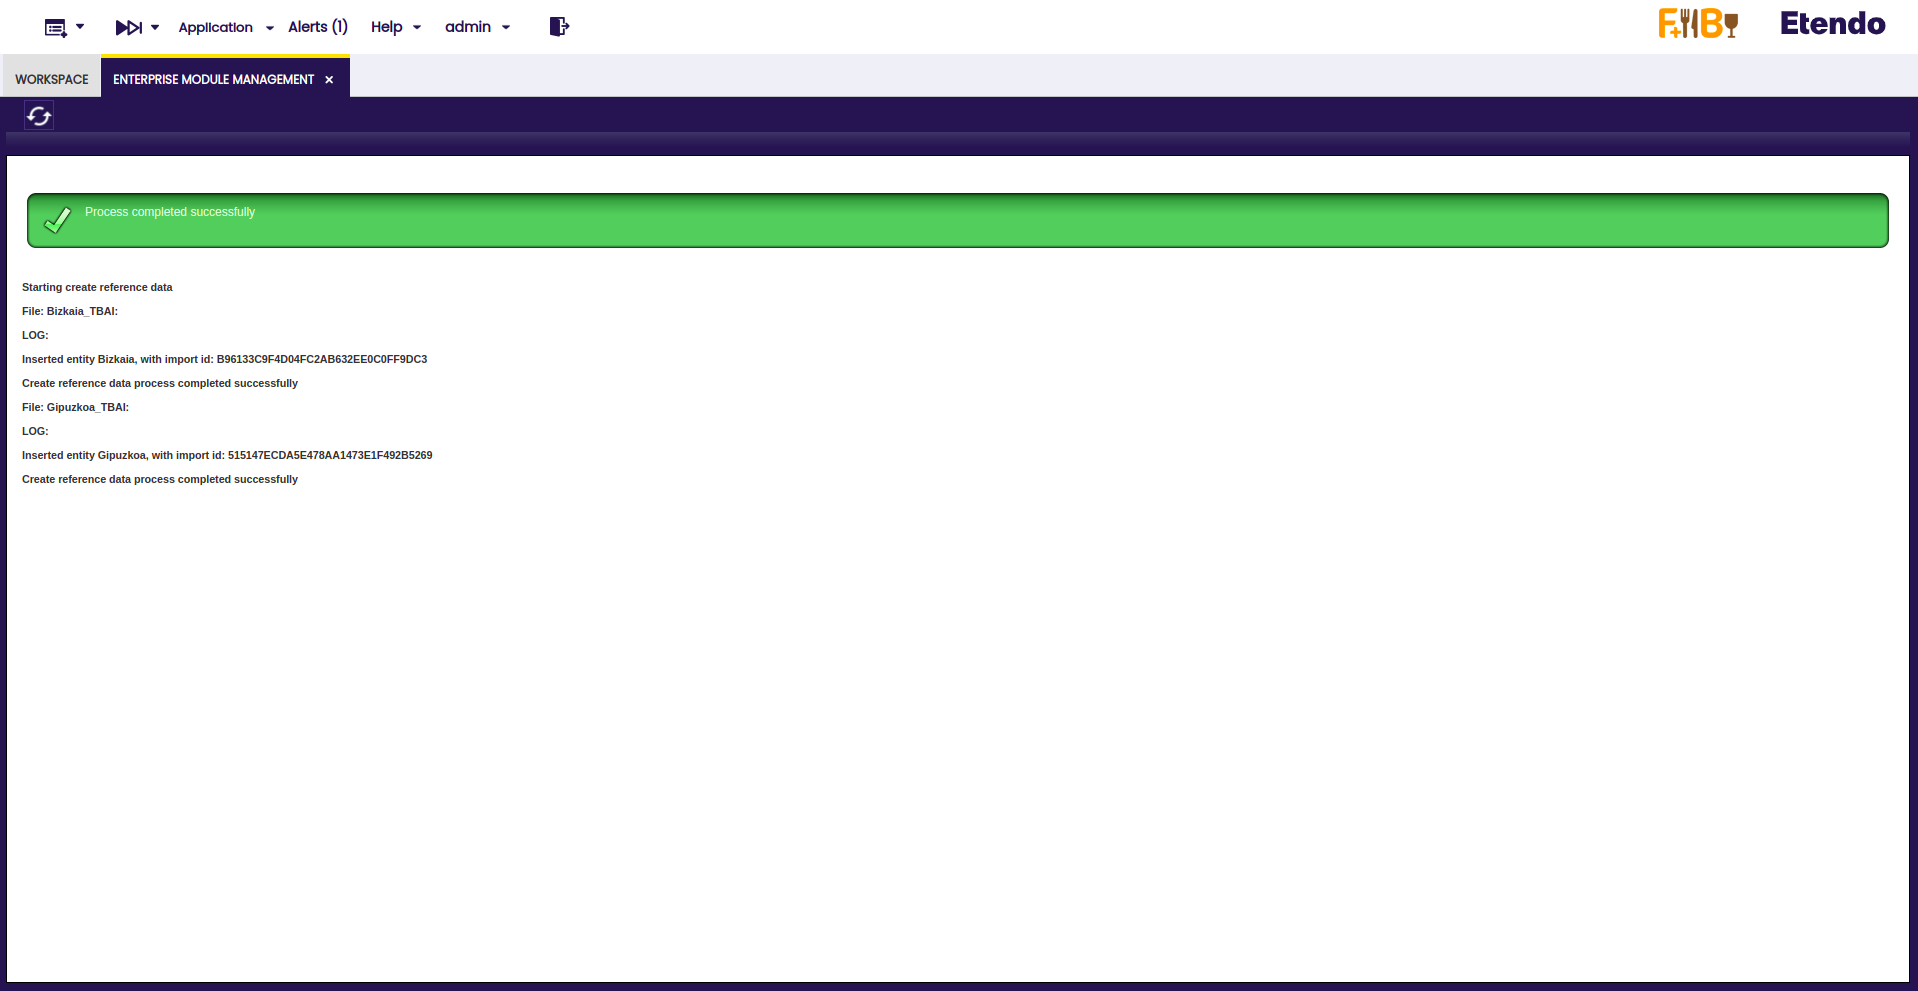
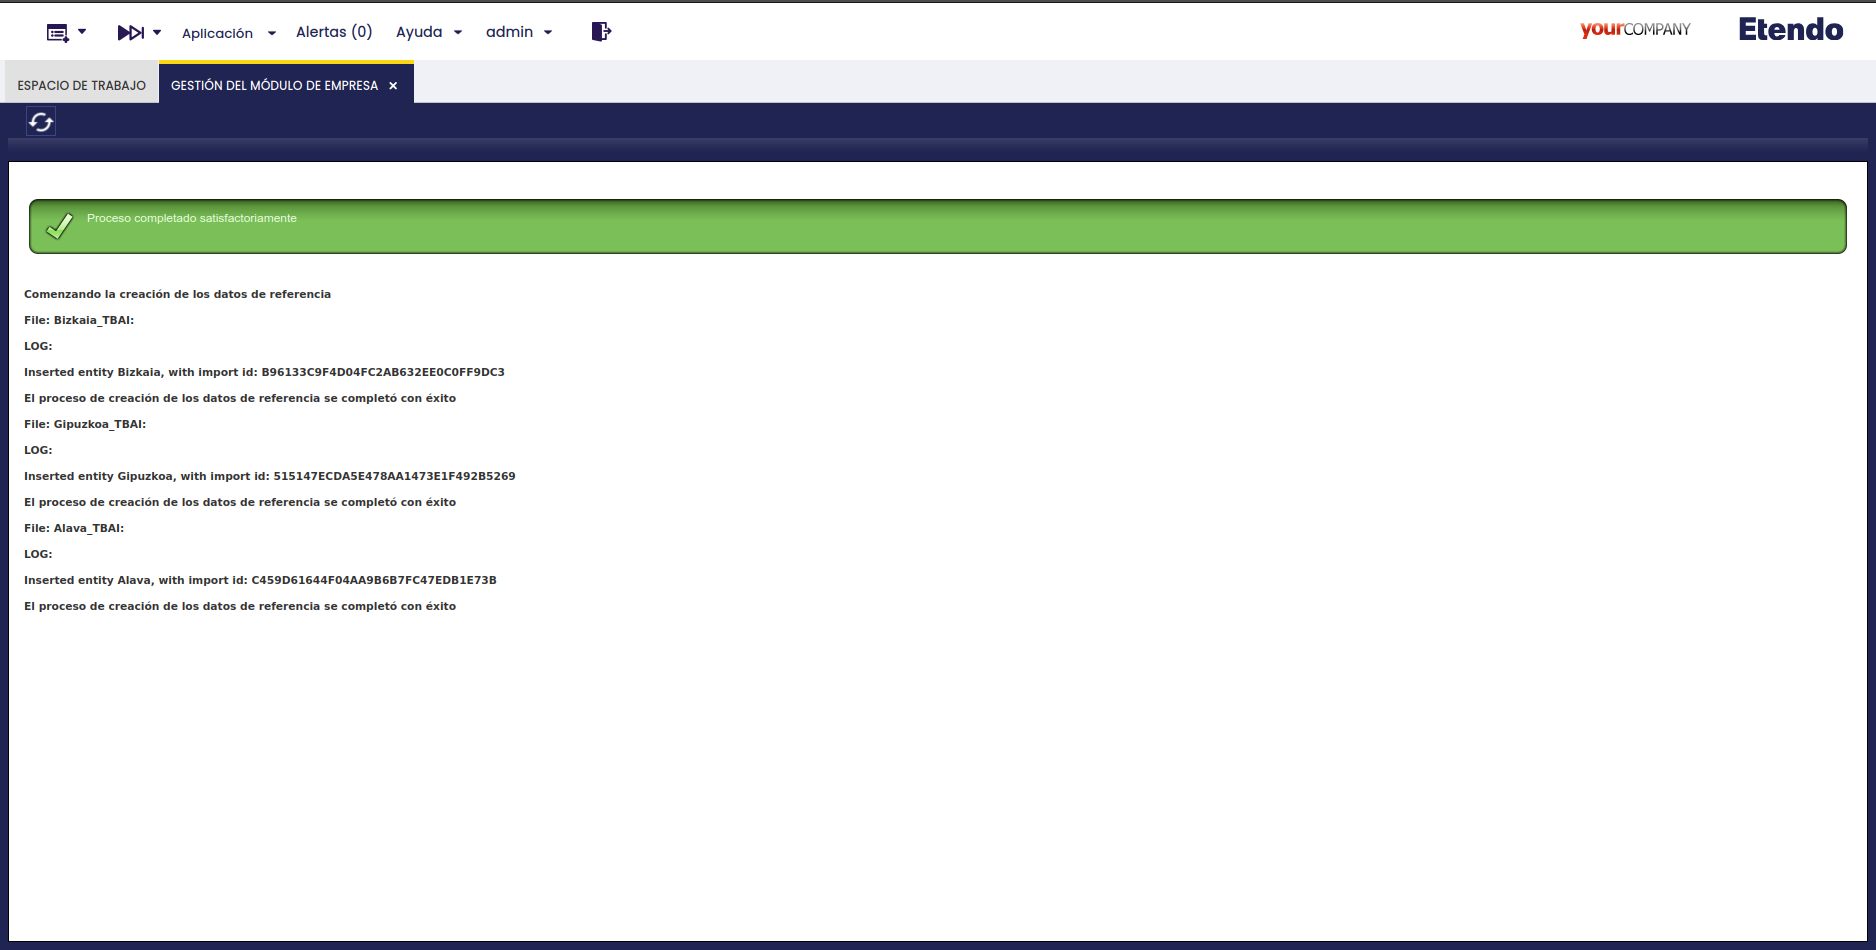
Feature ESL-272: Add documentation for TicketBAI Alava

Changed region(s): [[0.0, 0.0, 1.0, 0.6411], [0.0, 0.9768, 0.0309, 1.0]]

diff --git a/docs/user-guide/etendo-classic/optional-features/bundles/spain-localization/ticketbai-batuz.md b/docs/user-guide/etendo-classic/optional-features/bundles/spain-localization/ticketbai-batuz.md
@@ -5,6 +5,7 @@ tags:
 - Tbai
 - Batuz
 - Bizkaia
+- Álava
 - Factura
 - Gipuzkoa
 title: TicketBai y Batuz
@@ -18,7 +19,11 @@ title: TicketBai y Batuz
 
 Las funcionalidades de **TicketBai** y **Batuz** en Etendo ofrecen una solución integral para el cumplimiento de las normativas fiscales en el País Vasco, orientado a garantizar la **transparencia**, **reducir el fraude fiscal**, y **asegurar la correcta emisión de facturas** electrónicas certificadas.
 
-**TicketBai** es obligatorio para las empresas y profesionales que **operen en Gipuzkoa y estén sujetos al IVA o IAE**, mientras que **Batuz** se centra específicamente en **Bizkaia**, incluyendo además del sistema TicketBai, el Libro Registro de Operaciones Económicas (LROE).
+**TicketBai** es obligatorio para **todas las personas y entidades que realicen actividades económicas** en Álava, Bizkaia o Gipuzkoa (salvo algunas exoneraciones concretas). En Bizkaia, esta obligación forma parte del proyecto **Batuz**, que añade el Libro Registro de Operaciones Económicas (LROE) y la generación de borradores de IVA, Sociedades y Renta.
+
+!!! note "Diferencias territoriales"
+    - **TicketBai**: Obligatorio en Álava, Bizkaia y Gipuzkoa
+    - **Batuz (LROE)**: Exclusivo de Bizkaia
 
 A través de este módulo, Etendo facilita la **automatización de procesos** clave como la **emisión**, **validación** y **envío en tiempo real** de facturas a las haciendas forales. El sistema garantiza la trazabilidad de las transacciones mediante la firma electrónica de las facturas y la transmisión telemática a las autoridades fiscales.
 
@@ -26,7 +31,7 @@ A través de este módulo, Etendo facilita la **automatización de procesos** cl
 
 El módulo permite:
 
-- Enviar **automáticamente** los archivos XML con las facturas a las haciendas forales (Gipuzkoa o Bizkaia).
+- Enviar **automáticamente** los archivos XML con las facturas a las haciendas forales (Gipuzkoa, Bizkaia o Álava).
 - Recibir los XML de respuesta con la confirmación del envío de las facturas.
 
 La implementación cubre:
@@ -42,7 +47,7 @@ Al instalar este módulo, el usuario podrá comprobar que:
 
 1. Se crearán nuevas ventanas:
 
-    - **Configuración TBAI**, donde se podrán configurar todos los parámetros necesarios para el envío correcto de los registros de facturas a **TicketBai/Batuz**, incluyendo los destinos **Gipuzkoa** y **Bizkaia**.
+    - **Configuración TBAI**, donde se podrán configurar todos los parámetros necesarios para el envío correcto de los registros de facturas a **TicketBai/Batuz**, incluyendo los destinos **Gipuzkoa**, **Bizkaia** y **Álava**.
 
     - **TBAI Facturas Enviadas**, donde se podrá revisar el historial completo de todas las facturas enviadas tanto a **TicketBai** como a **Batuz**.
 
@@ -78,7 +83,7 @@ A continuación, si el proceso se ha ejecutado correctamente, el sistema mostrar
 
 ![](../../../../../assets/user-guide/etendo-classic/optional-features/bundles/spain-localization/tbai/successful_dataset.png)
 
-Este dataset proveerá los datos necesarios para gestionar el envío de facturas a Gipuzkoa y Bizkaia.
+Este dataset proveerá los datos necesarios para gestionar el envío de facturas a Gipuzkoa, Bizkaia y Álava.
 
 ### Configuración TBAI
 
@@ -86,7 +91,7 @@ La ventana de Configuración TBAI le permitirá ajustar los parámetros necesari
 
 - **Organización**: Seleccione la organización o entidad legal que será responsable del envío de los registros de facturas.
 
-- **Destino**: Elija el destino Gipuzkoa o Bizkaia previamente creado por el dataset.
+- **Destino**: Elija el destino **Gipuzkoa**, **Bizkaia** o **Álava** previamente creado por el dataset.
 
 - **Fecha Acogido TBAI**: Especifique la fecha en la que la organización se acoge al sistema TBAI.
 
@@ -111,6 +116,9 @@ La ventana de Configuración TBAI le permitirá ajustar los parámetros necesari
 ![](../../../../../assets/user-guide/etendo-classic/optional-features/bundles/spain-localization/tbai/tbai_conf.png)
 
 ![](../../../../../assets/user-guide/etendo-classic/optional-features/bundles/spain-localization/tbai/tbai_config_bizkaia.png)
+
+![](../../../../../assets/user-guide/etendo-classic/optional-features/bundles/spain-localization/tbai/tbai_config_alava.png)
+
 
 *No olvide adjuntar el certificado necesario.*
 
